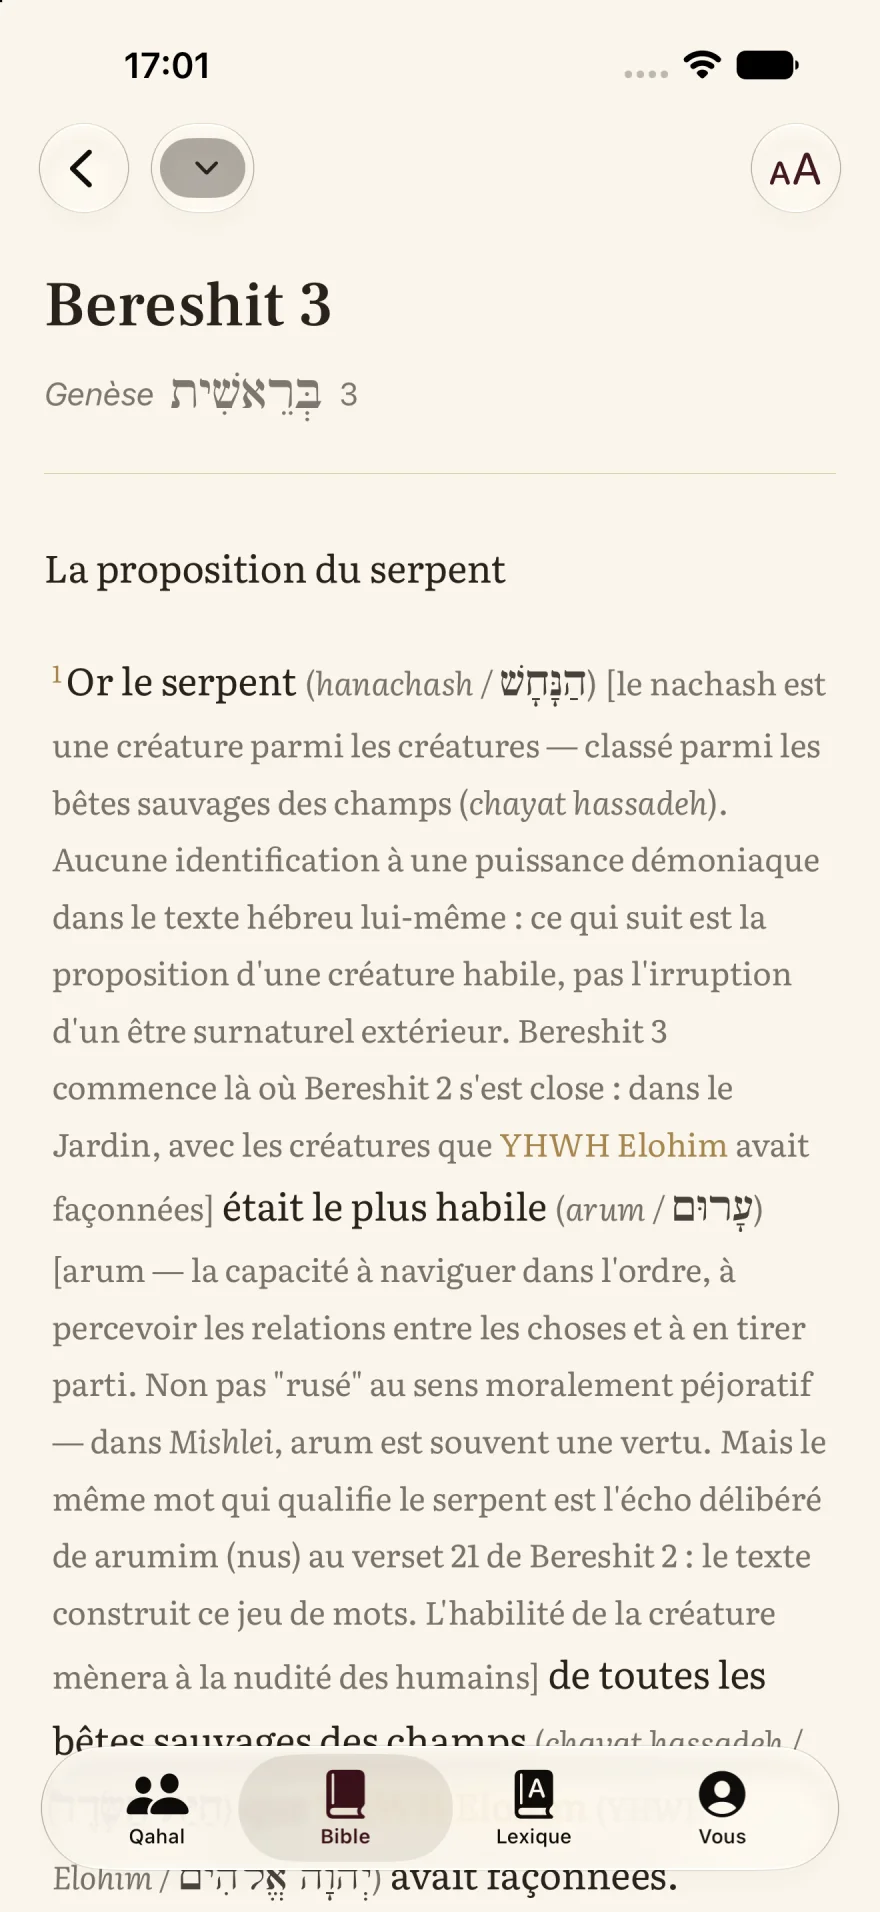
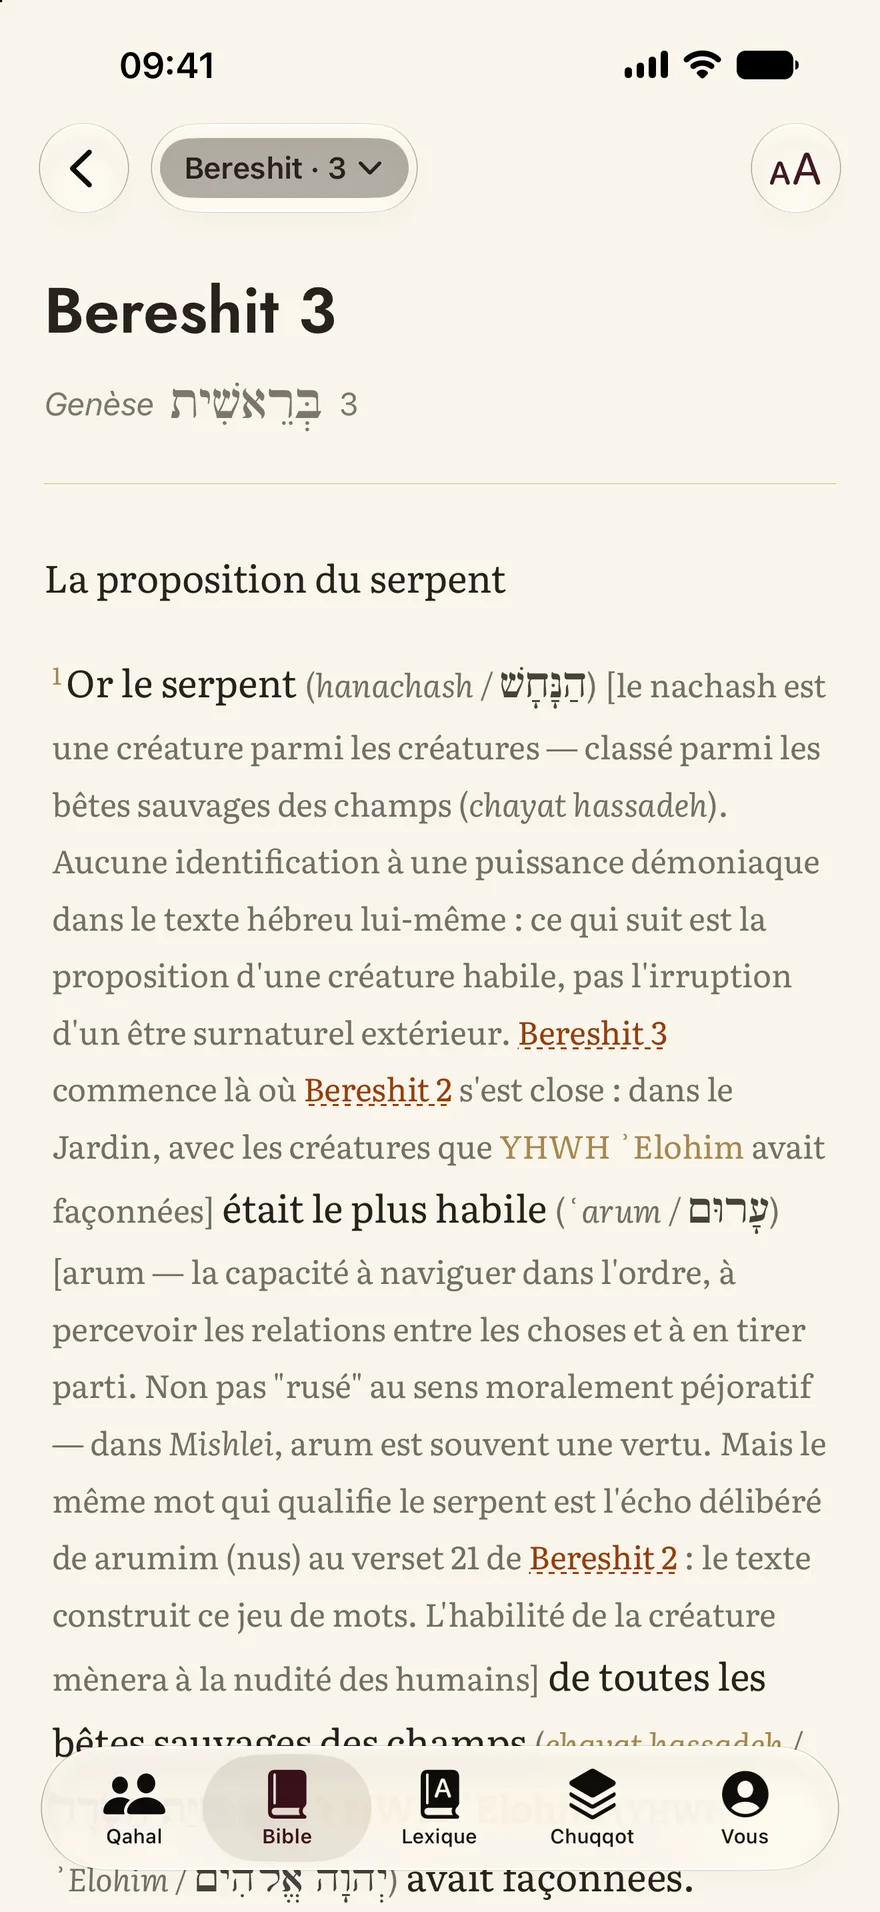
Reprendre la capture de l'app, qui montrait une version disparue
`/fr/l-app` servait une capture du **13 août 2026**. L'app a changé trois fois
depuis, et chacune se voit à l'écran :

    quatre onglets          →  cinq, Chuqqot est entré
    une pastille muette     →  « Bereshit · 3 », elle nomme l'unité
    des noms propres nus    →  les renvois rendus, soulignés vers leur passage

La page qui dit « installez l'application » montrait donc une application qui
n'existe plus — sur le seul écran qui porte un chemin d'acquisition.

Source : `ONTBibleApp/app/Captures/brut/iphone-6.9/02.png`, l'écran de lecture,
réduit aux mêmes 880 × 1912 que celle qu'elle remplace — les attributs `width`
et `height` du balisage les portent, et un `<img>` sans elles fait sauter la
page au chargement. WebP à 85, 112 Ko → 125 Ko.

## La mesure du trou se redonne avec sa méthode

Ce module justifiait la place de la Dynamic Island par un relevé : *« mesuré
sur `app-lecture.webp`, ce trou fait 47 % de la largeur »*. Le chiffre n'était
pas faux, il était **invérifiable** — aucune méthode, et il nommait un fichier
qui vient de changer.

Il est refait et sa méthode est écrite : sur la bande entre 1 % et 3 % de la
hauteur, les colonnes qui s'écartent du fond de plus de 40 (somme des canaux),
puis le plus grand intervalle vide. La capture de septembre rend **49,9 %** ;
celle d'août en rendait 54,4 % à la même méthode.

> ==Une mesure dont on ne peut pas redonner le seuil n'est pas une mesure,
> c'est un souvenir.==
[…]

diff --git a/src/interface/pages/application.rs b/src/interface/pages/application.rs
@@ -221,9 +221,43 @@ fn Atout(titre: &'static str, children: Children) -> impl IntoView {
 /// n'en montrera donc rien, quel que soit l'appareil.
 ///
 /// Ce qu'on voit dans la capture, c'est son **empreinte** : iOS pousse l'heure
-/// à gauche et les indicateurs à droite, laissant un trou central. Mesuré sur
-/// `app-lecture.webp`, ce trou fait 47 % de la largeur — la preuve que la
-/// capture vient bien d'un appareil à île, et la place où la poser.
+/// à gauche et les indicateurs à droite, laissant un trou central — la preuve
+/// que la capture vient bien d'un appareil à île, et la place où la poser.
+///
+/// **La mesure se redonne avec sa méthode**, sans quoi elle ne se refait pas :
+/// sur la bande horizontale comprise entre 1 % et 3 % de la hauteur, on relève
+/// les colonnes qui s'écartent du fond de plus de 40 (somme des trois canaux),
+/// et l'on prend le plus grand intervalle vide entre deux d'entre elles. La
+/// capture de septembre 2026 rend **49,9 %** de la largeur ; celle d'août 2026,
+/// qu'elle remplace, en rendait 54,4 % à la même méthode.
+///
+/// Ce paragraphe annonçait 47 % sans dire comment. Le chiffre n'était pas faux,
+/// il était **invérifiable** — et il nommait un fichier qui a changé depuis.
+/// ==Une mesure dont on ne peut pas redonner le seuil n'est pas une mesure,
+/// c'est un souvenir.==
+///
+/// Rien de tout cela n'entre dans le code : l'île se place sur la géométrie de
+/// l'appareil, pas sur ce relevé. Le trou ne sert qu'à vérifier qu'il y a bien
+/// une île à dessiner.
+///
+/// ## Elle périme sans que rien ne le dise
+///
+/// La capture vient de `ONTBibleApp/app/Captures/brut/iphone-6.9/`, que
+/// `captures.sh` régénère — et l'app change. Celle qu'elle remplace datait du
+/// 13 août 2026 : elle montrait **quatre** onglets là où il y en a cinq, une
+/// pastille de barre **muette** là où elle nomme l'unité, et des noms propres
+/// en encre là où les renvois sont désormais rendus.
+///
+/// Le dépôt de l'app tient sa vitrine par une règle — *« un jeu de captures
+/// pris avant le dernier changement d'interface n'est pas réputé juste, il est
+/// réputé inconnu »* — et rien ne la tient **ici**. Ce site n'a pas de garde
+/// qui puisse rougir sur une image périmée : une capture ancienne s'affiche
+/// aussi bien qu'une fraîche.
+///
+/// ==C'est le même défaut que le compte des livres, sous une autre matière :
+/// une affirmation figée à côté d'une source qui bouge.== La différence est
+/// qu'un nombre se calcule et qu'une capture se reprend — donc celle-ci se
+/// refait à la main, quand l'écran de lecture de l'app bouge.
 ///
 /// Les proportions sont celles de l'appareil, pas un dessin à l'œil : 126 pt de
 /// large sur 37,33, à 11 pt du haut, sur un écran de 402 pt. Rapportées à la
@@ -252,7 +286,9 @@ fn Ecran() -> impl IntoView {
                     <img
                         src=image("app-lecture.webp")
                         alt="Bereshit 3 dans l'application : le texte, ses gloses en retrait, \
-                             les intraduisibles en or et l'hébreu vocalisé."
+                             les intraduisibles en or, l'hébreu vocalisé, les renvois \
+                             soulignés vers les passages cités, et la barre des cinq \
+                             onglets — Qahal, Bible, Lexique, Chuqqot, Vous."
                         width="880"
                         height="1912"
                         // `loading=eager` : elle est le sujet du bloc, et la charger
